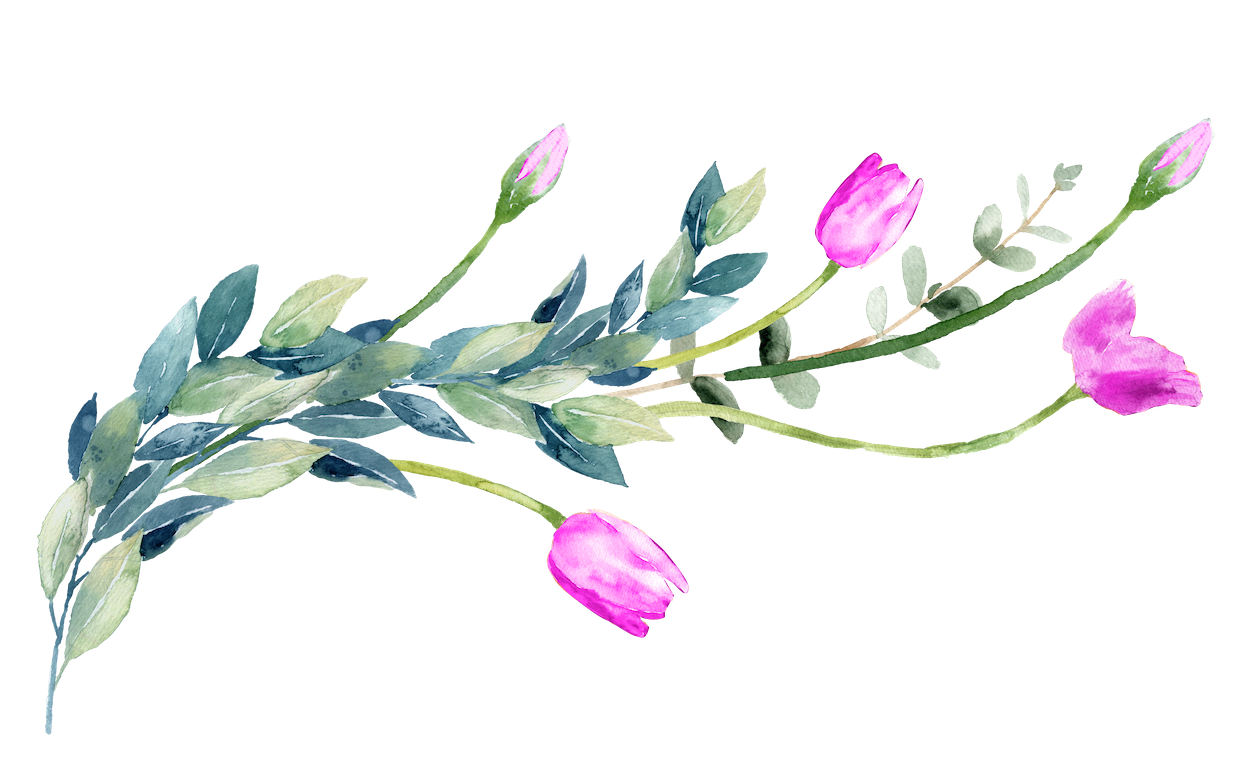
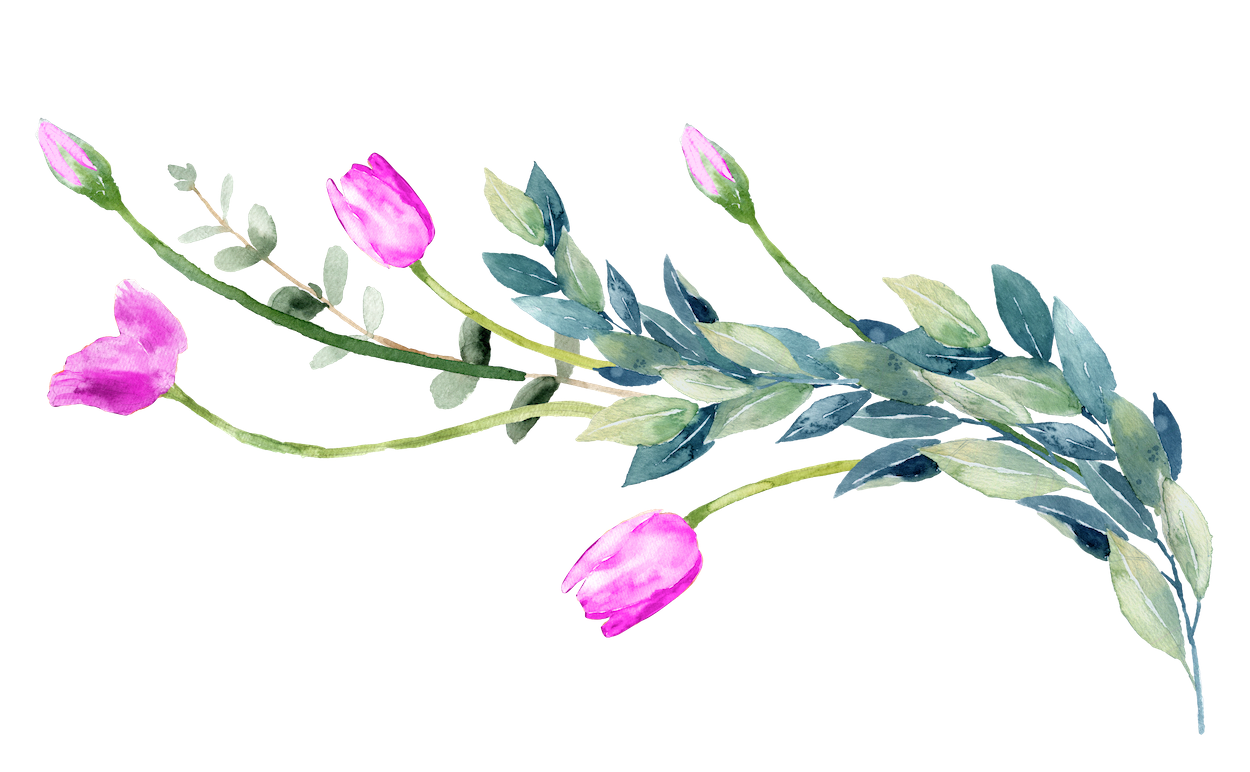
ya porfavor.png

Changed region(s): [[0.0312, 0.1554, 0.9672, 0.9326]]

diff --git a/src/styles.css b/src/styles.css
@@ -303,6 +303,33 @@ img  {
     background-color: var(--primary);
     color: var(--white);
   }
+  &.w-icon {
+    display: inline-block;
+    margin-top: 22px;
+    padding: 0 0 0 17px;
+    border-color: var(--primary-light);
+    &:hover {
+      background: var(--primary-light);
+      border-color: var(--primary-light);
+    }
+    &::after {
+      content: '';
+      background: var(--primary-light) url('././images/instagram.png') no-repeat center center;
+      background-size: 18px;
+      width: 34px;
+      height: 34px;
+      border-radius: 50%;
+      display: inline-block;
+      opacity: 1;
+      transform: none;
+      position: static;
+      vertical-align: top;
+      margin: 0%;
+    }
+    &.instagram:after {
+      background-image: url('././images/instagram.png');
+    }
+  }
 }
 
 .img-effect-scale {
@@ -821,7 +848,7 @@ img.img-effect-grayscale:nth-child(even):hover,
 /* Section 2.2 Factos I */
 .slide-factos {
   /* Flores */
-  &::before {
+  &::after {
     content: '';
     position: absolute;
     display: block;
@@ -829,8 +856,6 @@ img.img-effect-grayscale:nth-child(even):hover,
     background-size: contain;
     background-image: url('./images/flowers/flores6.png');
     opacity: 0;
-
-
 
     width: 40%;
     height: 35%;
@@ -841,23 +866,48 @@ img.img-effect-grayscale:nth-child(even):hover,
     --translation: -10%;
     transform: rotate(0deg) translateY(0);
   }
+  &::before {
+    content: '';
+    position: absolute;
+    display: block;
+    background: transparent none no-repeat center center;
+    background-size: contain;
+    background-image: url('./images/flowers/flores11.png');
+    opacity: 0;
+
+    width: 30vw;
+    height: 20vh;
+    top: 28%;
+    right: -7%;
+
+    --rotation: 11.3deg;
+    --translation: -10%;
+    transform: rotate(20deg) translateY(-50%);
+  }
 }
 .factos-section {
   display: grid;
-  grid-template-columns: 400px 1fr 1fr;
+  grid-template-columns: auto 26% 24%;
+  justify-content: space-between;
   align-items: stretch;
-  padding-top: 70px;
   gap: 0 20px;
-  height: 100%;;
+  width: 100%;
+  padding: 0 55vh 0 60px;
+  & p {
+    font-size: 20px;
+    line-height: 36px;
+  }
+  & .info span, & i {
+    font-size: 34px;
+    line-height: 36px;
+  }
   & i {
     color: var(--primary);
-    font-size: 28px;
-    line-height: 30px;
     font-weight: 500;
     font-style: italic;
   }
   & .column:nth-child(1) {
-    margin-top: 15%;
+    margin-top: 18%;
     .info-description {
       max-width: 320px;
       margin-top: 38px;
@@ -865,22 +915,15 @@ img.img-effect-grayscale:nth-child(even):hover,
   }
   & .column:nth-child(2) {
     margin: 0;
-    & img {
-      width: 260px;
-    }
     & p {
       margin-top: 48px;
       max-width: 280px;
     }
   }
   & .column:nth-child(3) {
-    margin: auto 0 20%;
+    padding-right: 0;
     & img {
-      width: 236px;
-      /* margin-top: 60px; */
-      position: relative;
-      left: -15%;
-      top: 60px;
+      margin-top: 60px;
     }
     & p {
       max-width: 382px;
@@ -903,14 +946,15 @@ img.img-effect-grayscale:nth-child(even):hover,
   }
 }
 .factos-image-up {
-  height: 30vh;
+  height: 34vh;
   width: auto;
-  transform: translateX(10%);
+  transform: translateX(70%);
+  z-index: 1;
 }
 .factos-image-down {
   top: auto;
   bottom: 0;
-  height: 40vh;
+  height: 39vh;
   width: auto;
   transform: translateX(50%);
 }
@@ -918,49 +962,65 @@ img.img-effect-grayscale:nth-child(even):hover,
 /* Section 2.3 Factos II */
 .slide-factos-ii {
   padding: 0 60px;
+  &::before {
+    content: '';
+    position: absolute;
+    display: block;
+    background: transparent none no-repeat center center;
+    background-size: contain;
+    background-image: url('./images/flowers/flores3.png');
+    opacity: 0;
+
+    width: 50vh;
+    height: 50vh;
+    top: -22%;
+    left: 18%;
+
+    --rotation: 86.57deg;
+    --translation: -10%;
+    transform: rotate(20deg) translateY(-50%);
+  }
 }
 .factos-grid {
   display: grid;
-  grid-template-columns: 310px 20% auto;
-  width: 100%;
+  grid-template-columns: 25% 19% 40%;
   height: 100%;
+  width: 100%;
+  padding: 60px;
   gap: 50px;
   align-items: stretch;
-  justify-content: space-between;
+  justify-content: space-evenly;
 
   & .column {
     display: flex;
     flex-flow: column nowrap;
-    justify-content: space-around;
+    justify-content: center;
     align-items: center;
     gap: 30px;
+    font-size: 20px;
+    line-height: 36px;
+    & i, & span {
+      font-size: 30px;
+      line-height: 36px;
+    }
     &.info {
       display: block;
     }
   }
 
-  & .column:nth-child(1) { margin: auto; padding-bottom: 25%; }
+  & .column:nth-child(1) { margin: auto; padding-bottom: 5vh; }
   & .column:nth-child(2) {
-    & img {
-      width: 90%;
-      margin-left: auto;
-      margin-right: -30px;
-      margin-top: 30%;
-    }
+    align-self: center;
   }
   & .column:nth-child(3) {
-    justify-content: space-between;
-    margin-right: -60px;
-
-    & p {
-      max-width: 446px;
-
-    }
+    justify-content: flex-end;
   }
 
   & .factos-grid-img-top {
-    /* position: relative; */
-    height: 40vh;
+    position: absolute;
+    top: 0;
+    right: 0;
+    height: 35vh;
     width: auto;
   }
   & .facts-last {
@@ -969,13 +1029,10 @@ img.img-effect-grayscale:nth-child(even):hover,
     justify-content: space-between;
     width: 100%;
     padding-right: 15%;
-    p {
-      width: 200px;
-    }
-    img {
+    & img {
       height: 30vh;
       width: auto;
-      margin-left: -15%;
+      margin-right: 60px;
     }
   }
 
@@ -1318,6 +1375,9 @@ img.img-effect-grayscale:nth-child(even):hover,
     background-image: url('./images/flowers/flores6@2x.png');
   }
   .slide-factos::before {
+    background-image: url('./images/flowers/flores11@2x.png');
+  }
+  .slide-factos::after {
     background-image: url('./images/flowers/flores6@2x.png');
   }
   .details::before {

diff --git a/src/index.html b/src/index.html
@@ -13,9 +13,20 @@
       <link rel="shortcut icon" type="image/png" sizes="32x32" href="./favicon/favicon-32x32.png">
       <link rel="apple-touch-icon" sizes="96x96" href="./favicon/favicon-96x96.png">
     <title>Andrea x Daniel</title>
+    <!-- Google Tag Manager -->
+    <script>(function(w,d,s,l,i){w[l]=w[l]||[];w[l].push({'gtm.start':
+    new Date().getTime(),event:'gtm.js'});var f=d.getElementsByTagName(s)[0],
+    j=d.createElement(s),dl=l!='dataLayer'?'&l='+l:'';j.async=true;j.src=
+    'https://www.googletagmanager.com/gtm.js?id='+i+dl;f.parentNode.insertBefore(j,f);
+    })(window,document,'script','dataLayer','GTM-W4BLKJC8');</script>
+    <!-- End Google Tag Manager -->
   </head>
 
   <body>
+    <!-- Google Tag Manager (noscript) -->
+    <noscript><iframe src="https://www.googletagmanager.com/ns.html?id=GTM-W4BLKJC8"
+    height="0" width="0" style="display:none;visibility:hidden"></iframe></noscript>
+    <!-- End Google Tag Manager (noscript) -->
     <section class="section">
       <div class="slider">
         <article class="slide home" id="hola">
@@ -216,9 +227,10 @@
               misericordia, <span>y que el amor trasciende las palabras.</span>
             </p>
             <div class="column">
-              <img src="./images/2-about-6-803A3031.png" alt="Andrea y Daniel" loading="lazy"
-                class="animate__animated animate__fadeInUp animate__delay-1s img-effect-perspective"
-                srcset="./images/2-about-6-803A3031.png 1x, ./images/2-about-6-803A3031@2x.png 2x" />
+              <div class="animate__animated animate__fadeInUp animate__delay-1s img-effect-perspective">
+                <img src="./images/2-about-6-803A3031.png" alt="Andrea y Daniel" loading="lazy"
+                  srcset="./images/2-about-6-803A3031.png 1x, ./images/2-about-6-803A3031@2x.png 2x" />
+              </div>
               <div class="info animate__animated animate__fadeInUp animate__delay-2s">
                 <i>Si fuéramos un platillo…</i>
                 <p>seríamos pan francés acompañado de salchicha asada. Versátiles y deliciosos, como nuestro primer
@@ -226,7 +238,8 @@
               </div>
             </div>
             <div class="column">
-              <img class="factos-grid-img-top animate__animated animate__fadeInRight animate__delay-2s img-effect-perspective" src="./images/2-about-8-DSC_1185-final-edit.png" alt="Andrea y Daniel"
+              <img src="./images/2-about-8-DSC_1185-final-edit.png" alt="Andrea y Daniel"
+                class="factos-grid-img-top animate__animated animate__fadeInRight animate__delay-2s"
                 loading="lazy"
                 srcset="./images/2-about-8-DSC_1185-final-edit.png 1x, ./images/2-about-8-DSC_1185-final-edit@2x.png 2x" />
               <p class="info animate__animated animate__fadeIn animate__delay-2s animate__slower">
@@ -239,7 +252,7 @@
                   class="animate__animated animate__fadeIn animate__delay-3s"
                   srcset="./images/2-about-7-MAH05731-final-edit.png 1x, ./images/2-about-7-MAH05731-final-edit@2x.png 2x" />
                 <p class="info animate__animated animate__fadeIn animate__delay-3s">¿Quieres seguir nuestra preparación para el gran día? ¡Aquí está todo el chisme! <br>
-                  <a href="https://www.instagram.com/somosandreaxdaniel/" class="button instagram">
+                  <a href="https://www.instagram.com/somosandreaxdaniel/" class="button w-icon instagram">
                     Síguenos
                   </a>
                 </p>
@@ -404,7 +417,7 @@
             </div>
             <div class="column info animate__animated animate__fadeIn animate__slow animate__delay-2s">
               <p>Por supuesto, nuestra boda no sería posible sin el apoyo de muchísimas otras personas que se han sumado para hacer realidad nuestro sueño. Desde el fondo de nuestro corazón, <br><span>¡muchas gracias!</span></p>
-              <a href="#">Menciones especiales</a>
+              <!-- <a href="#">Menciones especiales</a> -->
             </div>
           </div>
         </article>
